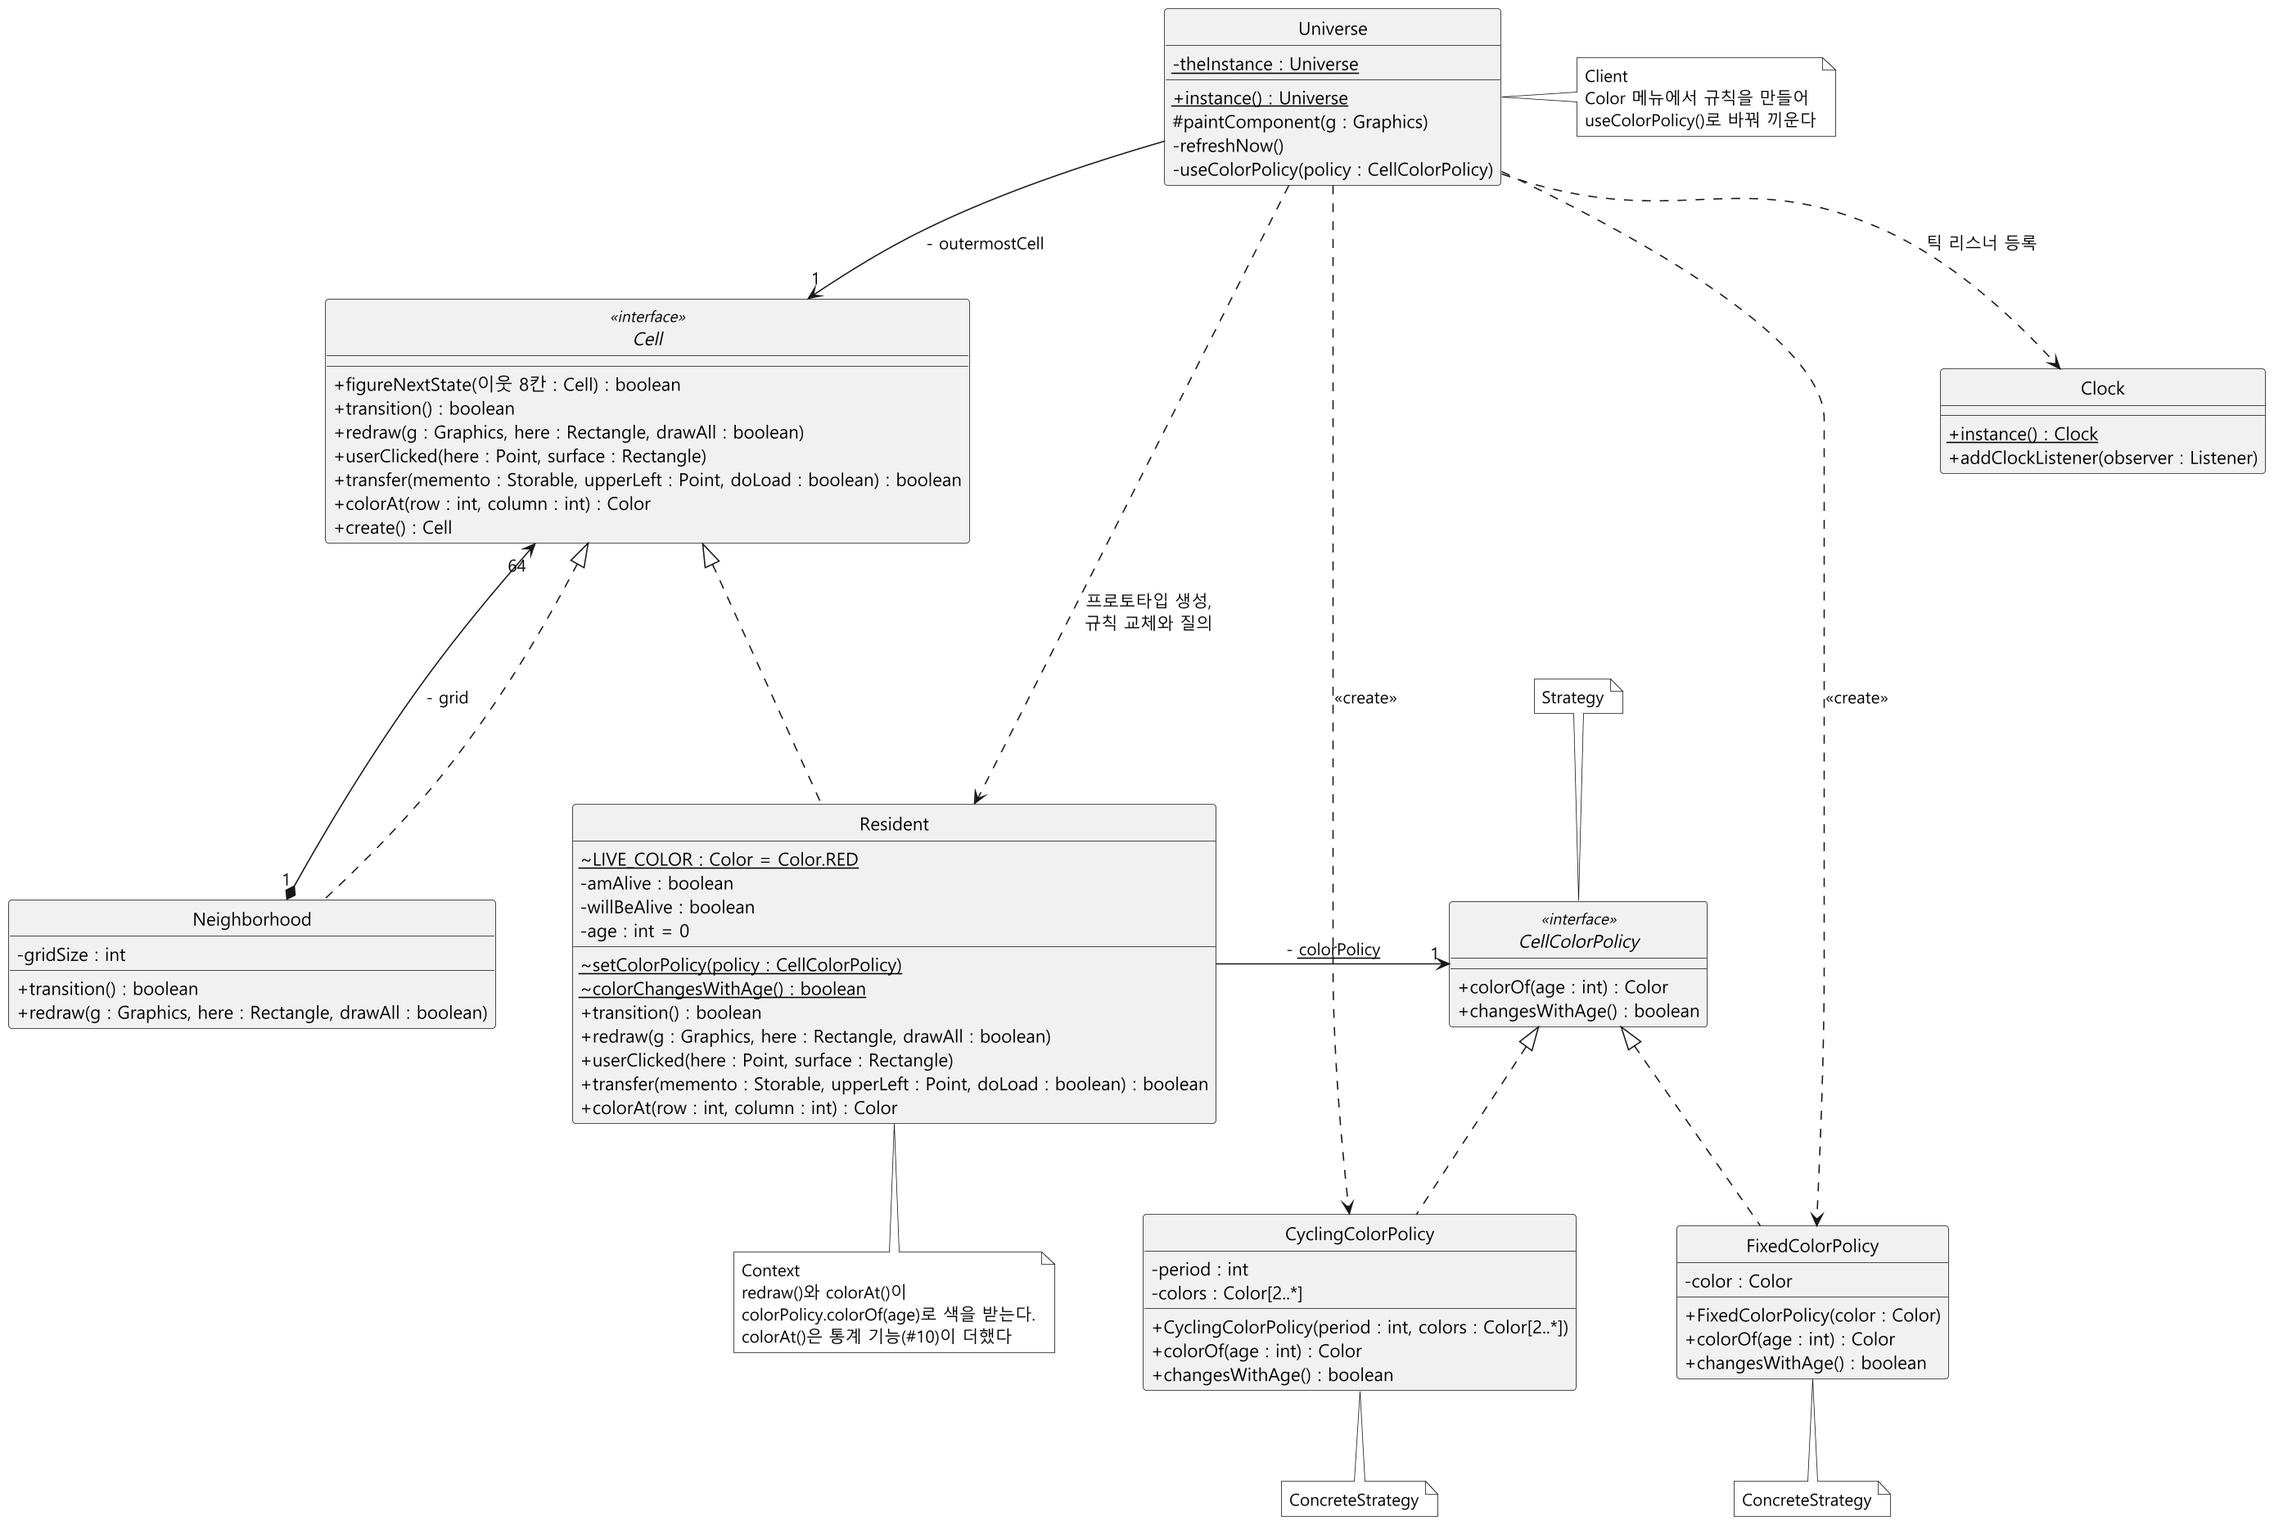
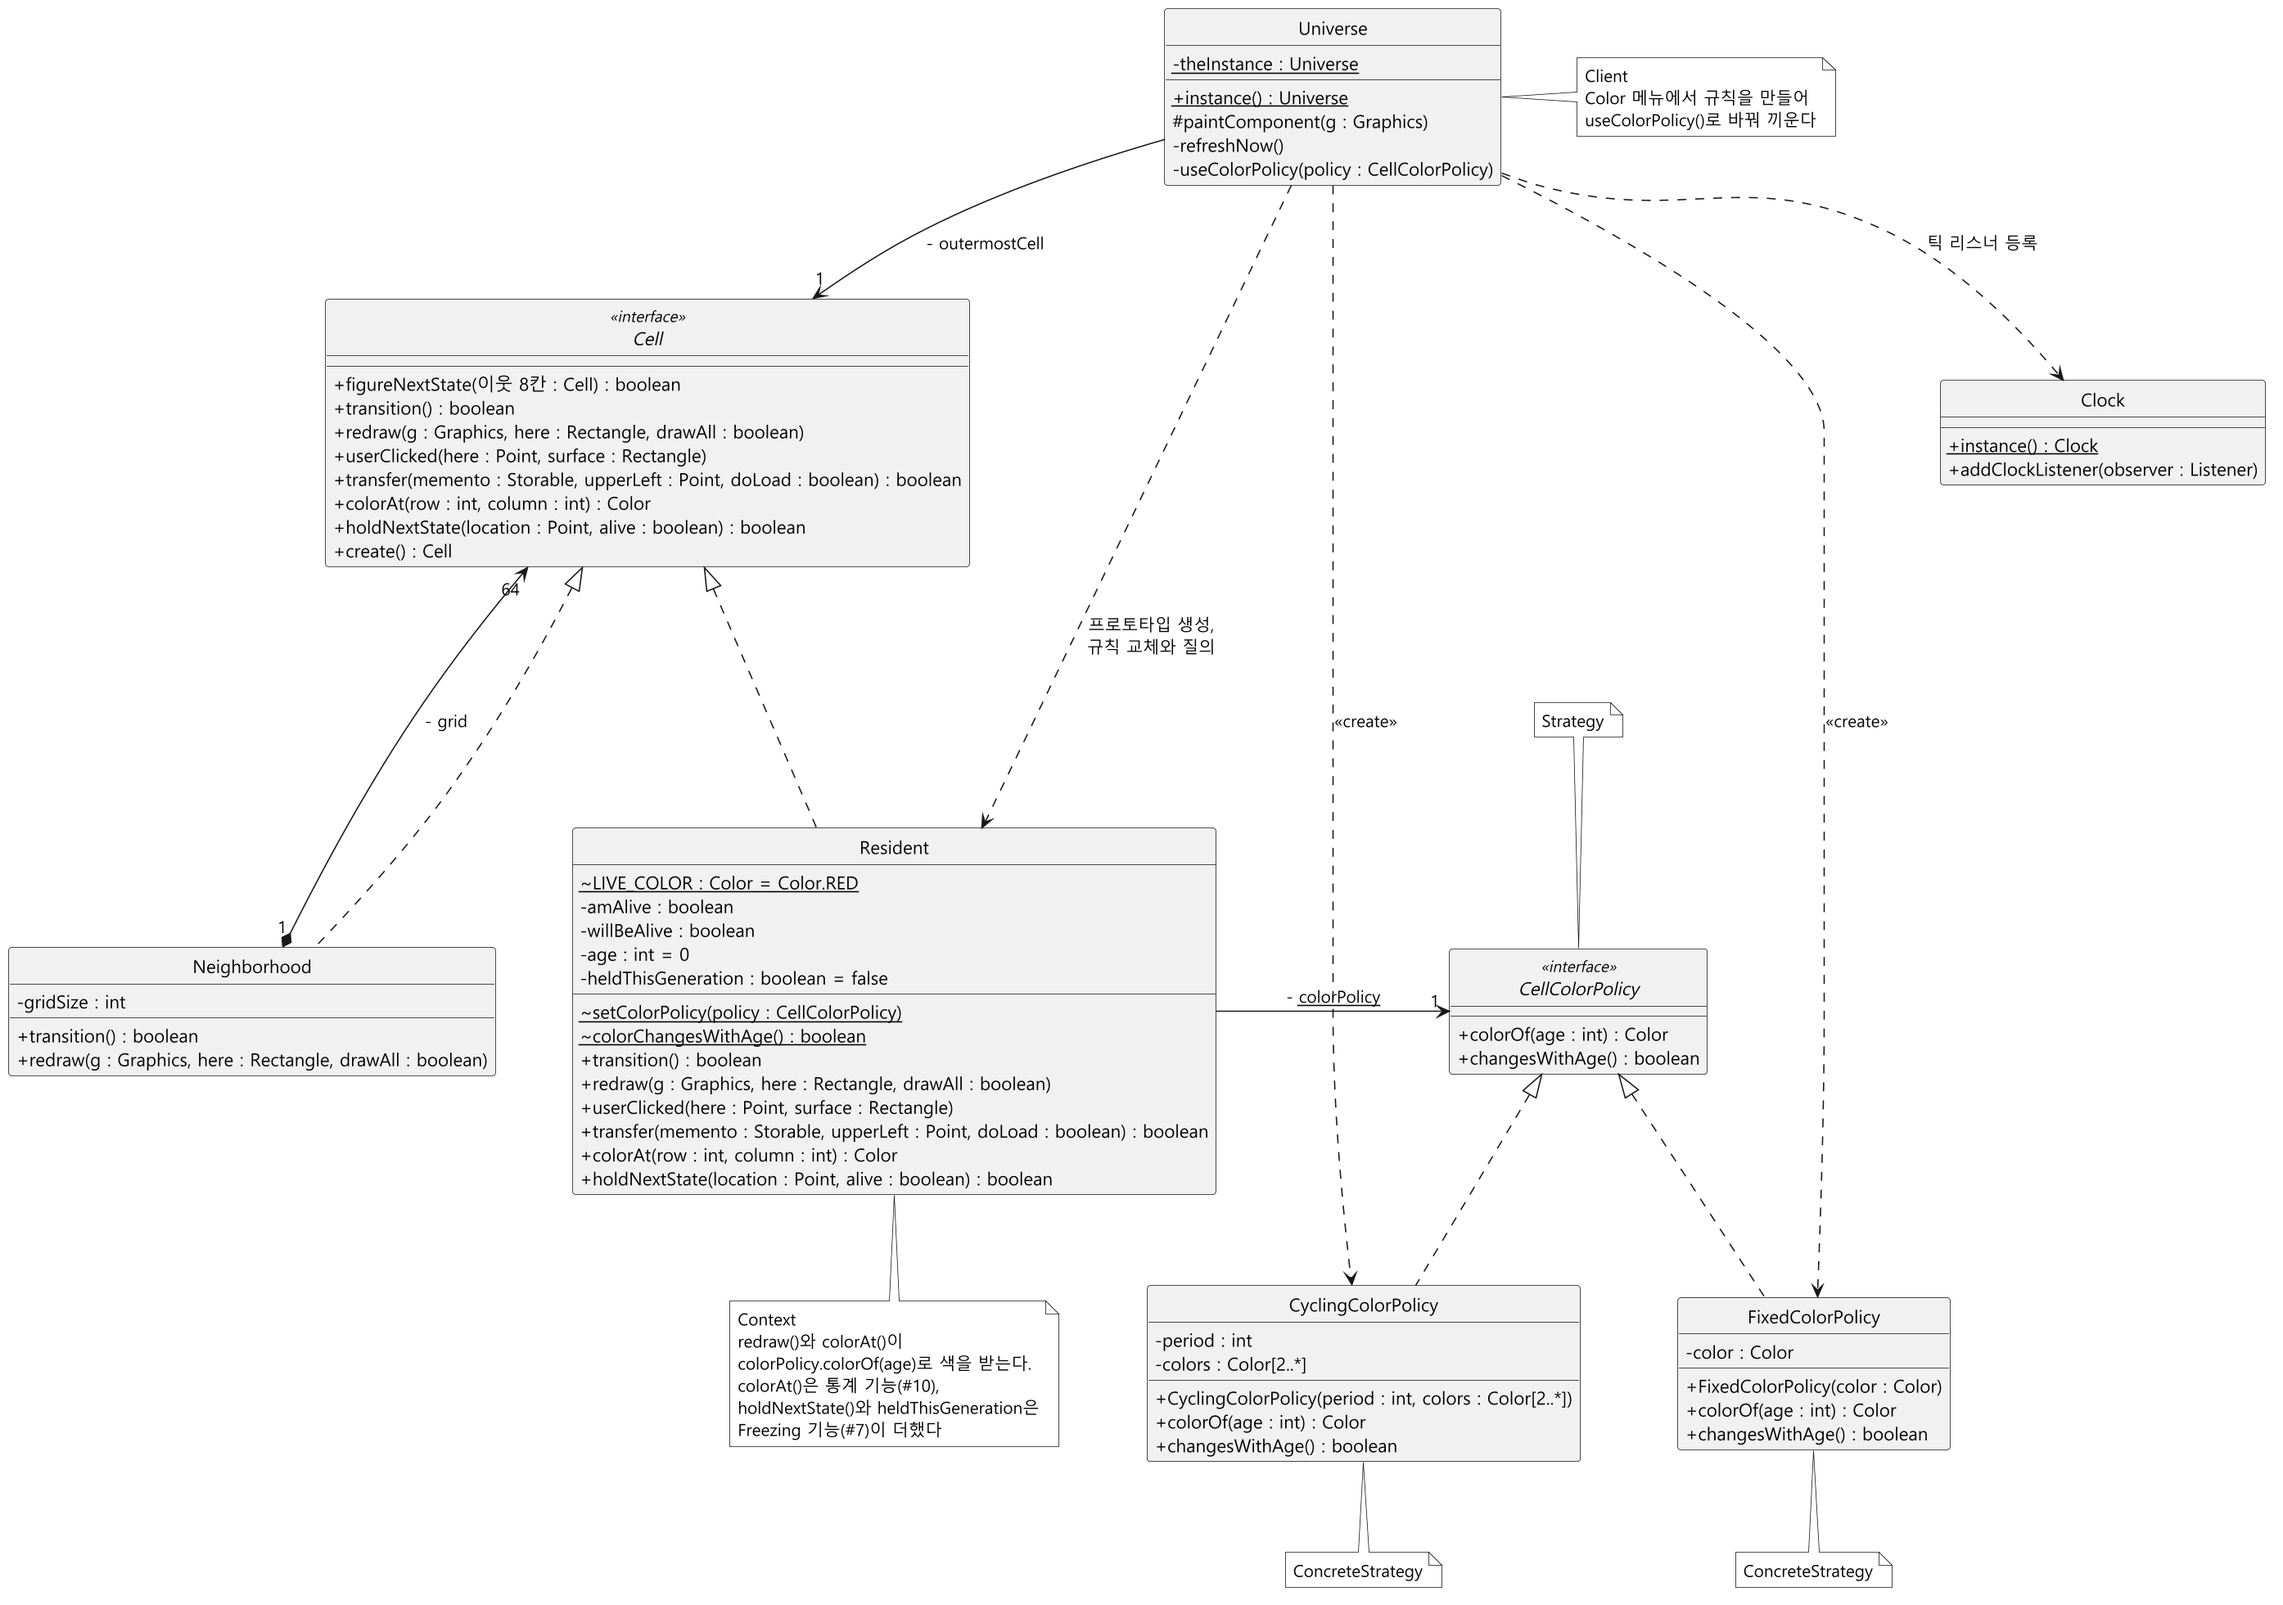
docs: 색 순환 다이어그램에 Freezing 병합 후의 틱 처리와 나이 고정 반영

diff --git a/docs/color-gen/color-gen.md b/docs/color-gen/color-gen.md
@@ -347,7 +347,7 @@ public final class CyclingColorPolicy implements CellColorPolicy {
 
 ### 3.1 클래스 구조
 
-바꾸기 전(원본 dev `c49ca39`)과 바꾼 후(dev `94f50b3`)의 클래스 다이어그램이다. 이 기능과 관계있는 클래스와 멤버만 그렸다.
+바꾸기 전(원본 dev `c49ca39`)과 바꾼 후(dev `838182c`)의 클래스 다이어그램이다. 이 기능과 관계있는 클래스와 멤버만 그렸다.
 
 ![바꾸기 전 클래스 다이어그램](diagrams/class-before.png)
 
@@ -356,6 +356,7 @@ public final class CyclingColorPolicy implements CellColorPolicy {
 - 밑줄은 static 멤버다. `colorPolicy` 연관 이름에 밑줄을 그어 Resident 클래스가 참조 하나를 가진다는 것을 나타냈다.
 - `LIVE_COLOR`는 Color 메뉴도 쓰므로 private(`-`)에서 package(`~`)로 바뀌었다.
 - `Cell.colorAt()`은 통계 기능(#10)이 더한 메서드다. 같은 `colorPolicy.colorOf(age)`로 색을 받으므로 함께 그렸다.
+- `holdNextState()`와 `heldThisGeneration`은 Freezing 기능(#7)이 더한 멤버다. 고정된 칸의 나이 계산을 막으므로 함께 그렸다(2.1절).
 - Universe의 `paint()`가 `paintComponent()`로 바뀐 것은 캡처·템플릿 기능(#9)의 변경이다.
 
 | 클래스 | 원본에서의 역할 | 이 기능에서 바뀐 역할 |
@@ -372,7 +373,7 @@ public final class CyclingColorPolicy implements CellColorPolicy {
 
 ### 3.2 한 세대가 진행되는 순서
 
-원본과 지금의 틱 처리를 시퀀스 다이어그램으로 비교한다. Neighborhood는 블록 안의 블록을 거쳐 Resident까지 내려가지만, 그림에서는 이 Composite 재귀를 "칸마다" loop 하나로 줄였다.
+원본과 지금의 틱 처리를 시퀀스 다이어그램으로 비교한다. Neighborhood는 블록 안의 블록을 거쳐 Resident까지 내려가지만, 그림에서는 이 Composite 재귀를 "칸마다" loop 하나로 줄였다. 지금 그림의 `FreezingManager`도 영역마다 상태 객체에 묻는 단계를 줄여, 고정된 칸마다 `holdNextState()`를 부르는 loop로 그렸다.
 
 ![원본 틱 처리 시퀀스 다이어그램](diagrams/sd-tick-before.png)
 
